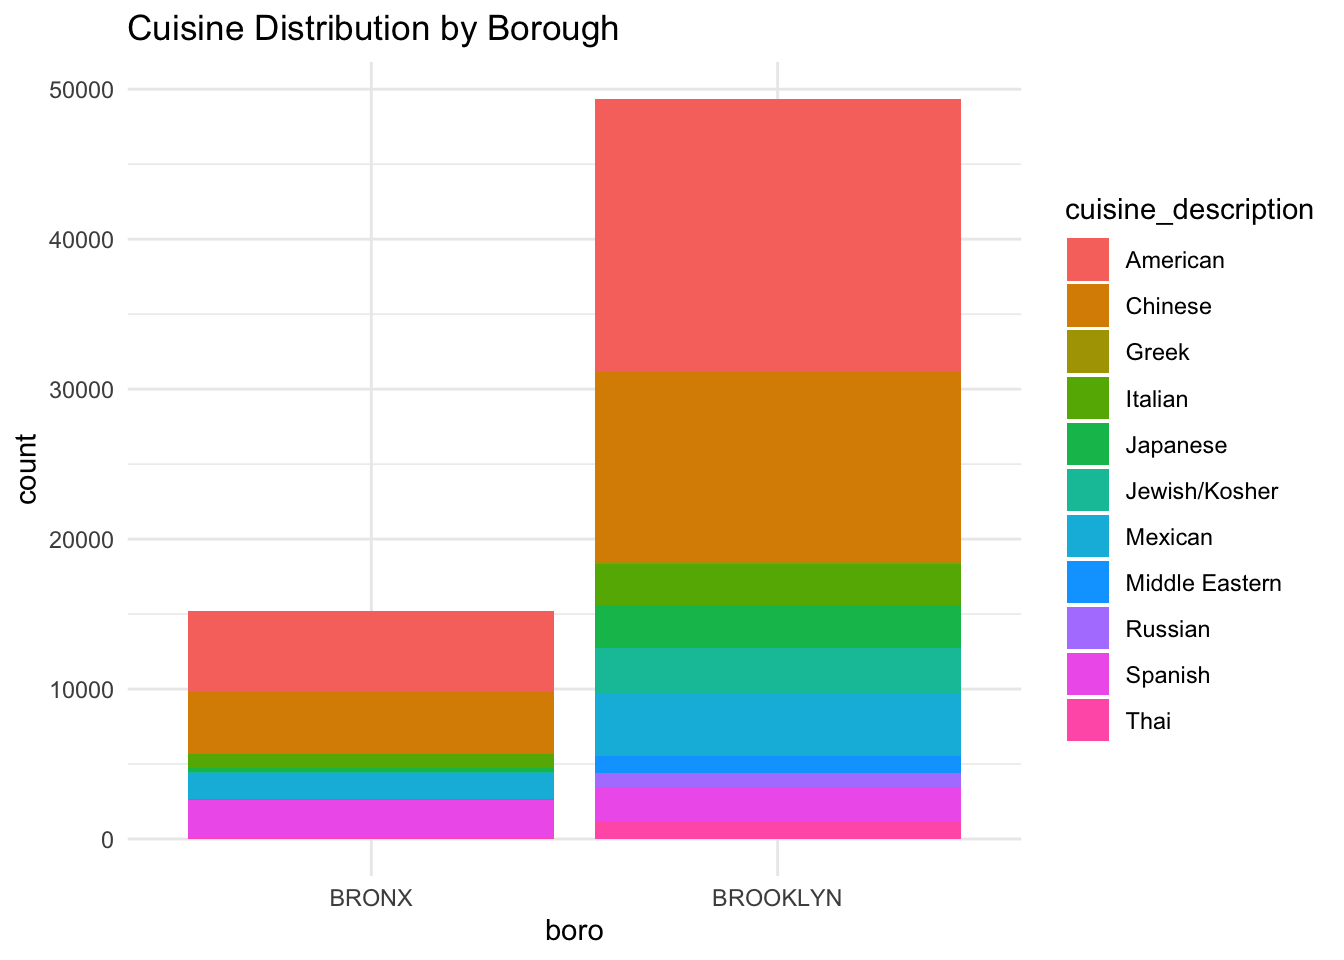
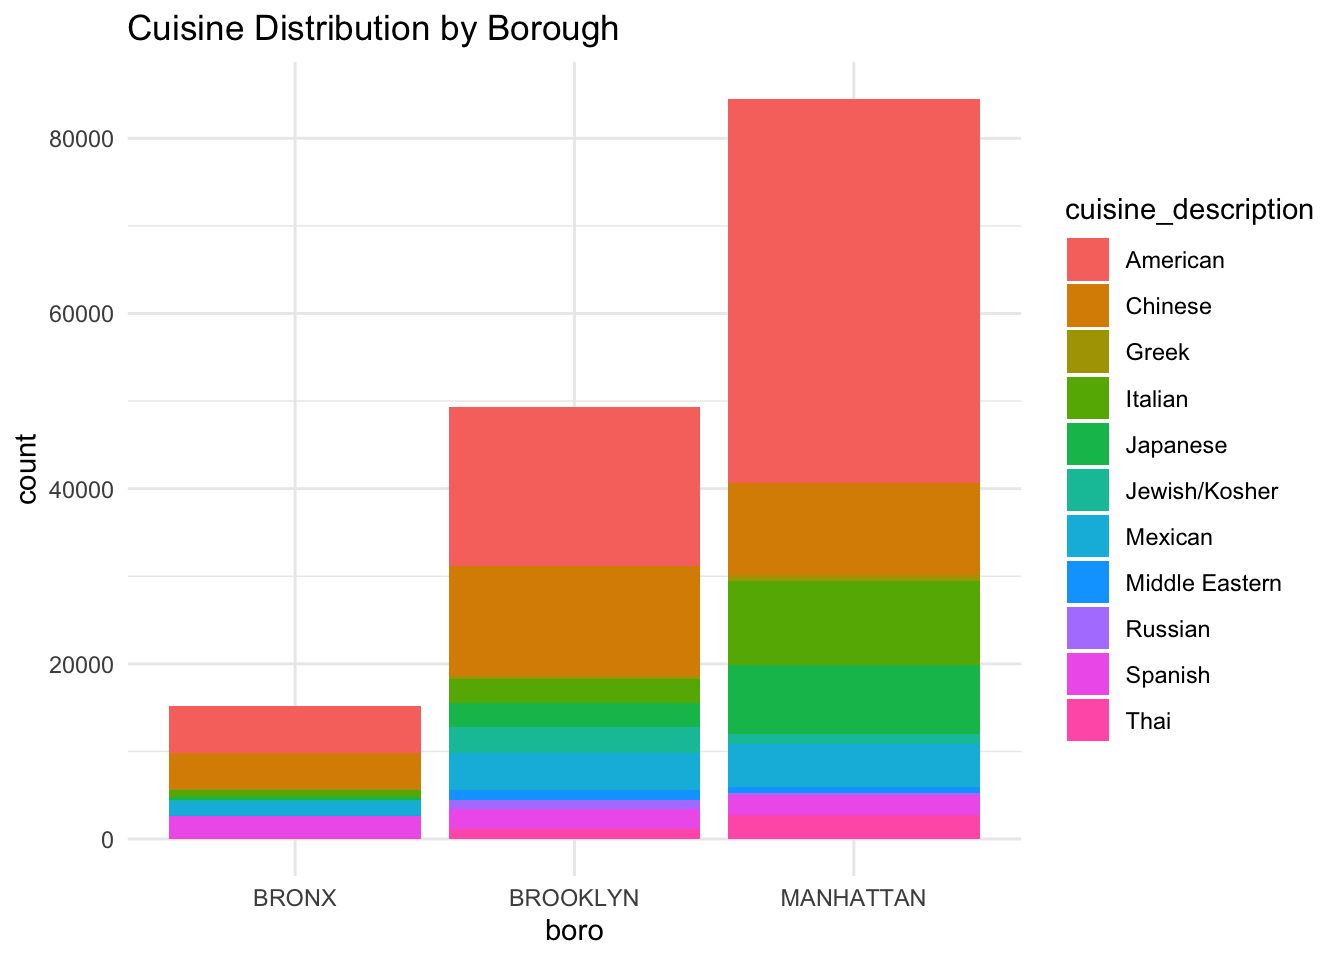
My final commit of the day!

diff --git a/resume.html b/resume.html
@@ -324,16 +324,19 @@ div.tocify {
       </ul>
       <ul class="nav navbar-nav navbar-right">
         <li>
-  <a href="about.html">About</a>
+  <a href="resume.html">Resume</a>
 </li>
 <li>
-  <a href="mailto:&lt;you@youremail.com&gt;">
+  <a href="plotly.html">plotly</a>
+</li>
+<li>
+  <a href="mailto:&lt;rh3132.cumc.colummbia.edu&gt;">
     <span class="fa fa-envelope fa-lg"></span>
      
   </a>
 </li>
 <li>
-  <a href="http://github.com/&lt;YOUR_GH_NAME&gt;/">
+  <a href="http://github.com/Ruohan99111/">
     <span class="fa fa-github fa-lg"></span>
      
   </a>
@@ -352,50 +355,59 @@ div.tocify {
 </div>
 
 
-<div id="this-page-has-information-about-me-experience"
-class="section level1">
-<h1>This page has information about me experience!</h1>
-<p>##Academic background</p>
+<p>Click <a href="index.html">here</a> to return to the index page!</p>
+<div id="academic-background" class="section level1">
+<h1>Academic background</h1>
 <p><strong>Columbia University, Mailman School of Public Health</strong>
 –New York, NY Master of Public Health in Epidemiology; certificate in
 Advanced Epidemiology | GPA: 3.94 Sept 2022 - Jun 2024</p>
 <p><strong>University of Washington, School of Public Health</strong> –
 Seattle, WA Bachelor of Arts in Food system, Nutrition and Health Minor
 in Global Health | GPA: 3.7 Sept 2018 - Jun 2022</p>
-<p>##SKILLSET Data Analysis &amp; Visualization: R, MySQL, SAS, SPSS,
-MATLAB, Tableau, Figma Research: Survival analysis, regression, proposal
-&amp; grant writing, IRB submission, survey analysis, literature
-review</p>
-<p>##EXPERIENCE <strong>Global Healthy Living Foundation</strong> New
-York Research Fellow Jun 2023 - Present - Conduct literature reviews,
-design studies, and actively participate in grant writing initiatives;
-secure an average of $100k in research grants. - Employ R, SAS and Excel
-to conduct rigorous data analytics on datasets of over 25,000 patients,
-generating descriptive statistics and creating insightful
-visualizations; enhance health information dissemination by 14% within
-patient groups. <strong>Columbia University Mailman School of Public
-Health</strong> New York Research Data Analyst May 2023 - Present -
-Utilize R and SPSS to clean, maintain, analyze, and validate survey data
-for 500+ participants, ensuring robust data integrity and reducing data
+</div>
+<div id="skillset" class="section level1">
+<h1>SKILLSET</h1>
+<p>Data Analysis &amp; Visualization: R, MySQL, SAS, SPSS, MATLAB,
+Tableau, Figma Research: Survival analysis, regression, proposal &amp;
+grant writing, IRB submission, survey analysis, literature review</p>
+</div>
+<div id="experience" class="section level1">
+<h1>EXPERIENCE</h1>
+<p><strong>Global Healthy Living Foundation</strong> New York Research
+Fellow Jun 2023 - Present - Conduct literature reviews, design studies,
+and actively participate in grant writing initiatives; secure an average
+of $100k in research grants. - Employ R, SAS and Excel to conduct
+rigorous data analytics on datasets of over 25,000 patients, generating
+descriptive statistics and creating insightful visualizations; enhance
+health information dissemination by 14% within patient groups.</p>
+<p><strong>Columbia University Mailman School of Public Health</strong>
+New York Research Data Analyst May 2023 - Present - Utilize R and SPSS
+to clean, maintain, analyze, and validate survey data for 500+
+participants, ensuring robust data integrity and reducing data
 inconsistencies by 23%. - Apply specialized statistical methods such as
-regression and survival analysis to unearth key patterns and insights.
-<strong>GlaxoSmithKline</strong> Vaccine Quality Control Analysis Intern
-Apr 2021 - Aug 2021 - Steer quality objectives and improvement plans,
-using Tableau to analyzing key indicators to foster continual
+regression and survival analysis to unearth key patterns and
+insights.</p>
+<p><strong>GlaxoSmithKline</strong> Vaccine Quality Control Analysis
+Intern Apr 2021 - Aug 2021 - Steer quality objectives and improvement
+plans, using Tableau to analyzing key indicators to foster continual
 enhancements. - Monitor FDA vaccine announcements, scrutinize vaccine
 quality test reports using Excel, and collate batch data for
 comprehensive analysis.</p>
-<p>##PROJECT <strong>Data-Driven Insights into the Correlation Between
-Income and Sleep Quality</strong> - Utilized large datasets and applied
+</div>
+<div id="project" class="section level1">
+<h1>PROJECT</h1>
+<p><strong>Data-Driven Insights into the Correlation Between Income and
+Sleep Quality</strong> - Utilized large datasets and applied
 correlations, logistic regression, and t- tests to evaluate the
 relationship using SAS. - Authored evidence-based abstracts and tables
 to demonstrate a correlation between lower income and reduced sleep
-quality. <strong>Correlation Analysis of Serological and Immune
-Indicators of HIV-1 Recent Infection</strong> - Established logistic
-regression model to compare the differences of indicators between recent
-infection and previous infection samples, and further conducted
-statistical data analysis using SPSS. - Discovered that no correlation
-between S/CO and CD4 count in different immune states.</p>
+quality.</p>
+<p><strong>Correlation Analysis of Serological and Immune Indicators of
+HIV-1 Recent Infection</strong> - Established logistic regression model
+to compare the differences of indicators between recent infection and
+previous infection samples, and further conducted statistical data
+analysis using SPSS. - Discovered that no correlation between S/CO and
+CD4 count in different immune states.</p>
 </div>
 
 

diff --git a/plotly.html b/plotly.html
@@ -279,8 +279,8 @@ $(document).ready(function () {
 </div>
 
 
-<p>Click [here] (index.html) to return to the index page! We’re gonna
-look at the Instacart data.</p>
+<p>Click <a href="index.html">here</a> to return to the index page!</p>
+<p>We’re gonna look at the Instacart data.</p>
 <pre class="r"><code>library(flexdashboard)
 library(p8105.datasets)
 data(&quot;rest_inspec&quot;)
@@ -299,25 +299,25 @@ library(tidyverse)</code></pre>
 <pre class="r"><code>data(&quot;rest_inspec&quot;)</code></pre>
 <pre class="r"><code>rest_inspec &lt;- rest_inspec %&gt;%
   filter(!is.na(score) &amp; 
-         boro %in% c(&quot;Manhattan&quot;, &quot;BRONX&quot;, &quot;BROOKLYN&quot;) &amp;
+         boro %in% c(&quot;BRONX&quot;, &quot;MANHATTAN&quot;, &quot;BROOKLYN&quot;) &amp;
          cuisine_description %in% c(&quot;Mexican&quot;, &quot;Chinese&quot;, &quot;Japanese&quot;, &quot;Italian&quot;, &quot;Jewish/Kosher&quot;, &quot;Russian&quot;, &quot;American&quot;, &quot;Middle Eastern&quot;, &quot;Spanish&quot;, &quot;Greek&quot;, &quot;Thai&quot;)) %&gt;%
-  select(boro,cuisine_description, dba, critical_flag, score, grade)</code></pre>
+  select(boro, cuisine_description, dba, critical_flag, score, grade)</code></pre>
 <pre class="r"><code>print(rest_inspec)</code></pre>
-<pre><code>## # A tibble: 64,594 × 6
-##    boro  cuisine_description dba                       critical_flag score grade
-##    &lt;chr&gt; &lt;chr&gt;               &lt;chr&gt;                     &lt;chr&gt;         &lt;int&gt; &lt;chr&gt;
-##  1 BRONX Chinese             NEW LIN&#39;S GARDEN NY       Critical         22 &lt;NA&gt; 
-##  2 BRONX Chinese             KIM HUA                   Not Critical      9 A    
-##  3 BRONX American            SYMPHONY DINER            Not Critical     22 &lt;NA&gt; 
-##  4 BRONX Mexican             LOS HERMANOS SALAZAR RES… Critical          6 A    
-##  5 BRONX American            GLACKEN&#39;S BAR             Not Critical     23 &lt;NA&gt; 
-##  6 BRONX American            NEW YORK YANKEES MVP CLUB Not Applicab…     0 A    
-##  7 BRONX American            HIGHLANDERS (STAND 318)   Critical          7 A    
-##  8 BRONX American            STADIUM PIZZA BAR RESTAU… Not Applicab…     0 A    
-##  9 BRONX American            YANKEE TAVERN             Not Critical     13 A    
-## 10 BRONX American            NATHAN&#39;S (STAND 312)      Not Critical     10 A    
-## # ℹ 64,584 more rows</code></pre>
-<p>The <code>rest_inspec</code> dataset contains 64594 observations and
+<pre><code>## # A tibble: 149,097 × 6
+##    boro      cuisine_description dba                   critical_flag score grade
+##    &lt;chr&gt;     &lt;chr&gt;               &lt;chr&gt;                 &lt;chr&gt;         &lt;int&gt; &lt;chr&gt;
+##  1 MANHATTAN Italian             SPINELLI&#39;S PIZZA/GYR… Not Critical     40 &lt;NA&gt; 
+##  2 MANHATTAN American            THE HAROLD            Critical          9 A    
+##  3 MANHATTAN American            BRGR                  Not Critical     12 A    
+##  4 MANHATTAN American            EPICE CAFE            Critical          8 &lt;NA&gt; 
+##  5 MANHATTAN Thai                SONG KRAN THAI        Not Critical     28 &lt;NA&gt; 
+##  6 MANHATTAN Chinese             GRAND SICHUAN         Not Critical     23 &lt;NA&gt; 
+##  7 MANHATTAN American            TOMMY HILFIGER        Not Critical     26 &lt;NA&gt; 
+##  8 MANHATTAN American            THE HAROLD            Critical         17 &lt;NA&gt; 
+##  9 MANHATTAN American            DEATH AVE             Critical          6 &lt;NA&gt; 
+## 10 MANHATTAN American            JOHNY&#39;S LUNCHEONETTE  Critical          7 A    
+## # ℹ 149,087 more rows</code></pre>
+<p>The <code>rest_inspec</code> dataset contains 149097 observations and
 <code>6</code> variables.</p>
 <p>We only want to look at restaurants located in the boroughs of
 “Manhattan”, “BRONX”, and “BROOKLYN”. Cuisine Filter: The dataset was

diff --git a/index.html b/index.html
@@ -11,7 +11,7 @@
 
 
 
-<title>Ruohan Hong’s awesome website</title>
+<title>Ruohan Hong’s website</title>
 
 <script src="site_libs/header-attrs-2.25/header-attrs.js"></script>
 <script src="site_libs/jquery-3.6.0/jquery-3.6.0.min.js"></script>
@@ -350,14 +350,16 @@ div.tocify {
 
 
 
-<h1 class="title toc-ignore">Ruohan Hong’s awesome website</h1>
+<h1 class="title toc-ignore">Ruohan Hong’s website</h1>
 
 </div>
 
 
-<div id="this-is-ruohan-hongs-webpage-this-is-for-p8105-homework-4."
-class="section level1">
-<h1>This is Ruohan Hong’s webpage! This is for P8105 Homework 4.</h1>
+<div id="my-journey" class="section level1">
+<h1>My journey</h1>
+<p>I graduated form the University of Washington in 2022. I love fishing
+and watching crime shows. My favorite holiday is Christmas, and it’s
+coming!</p>
 <p>I am Excited about Christmas, are you?</p>
 <p><img src="christmas.jpeg" /></p>
 </div>
@@ -365,6 +367,13 @@ class="section level1">
 class="section level1">
 <h1>Here is the link to my resume, check it out!</h1>
 <p><a href="resume.html">resume</a></p>
+</div>
+<div
+id="here-is-some-analysis-plots-ive-done-for-nyc-restaurant-inspections."
+class="section level1">
+<h1>Here is some analysis plots I’ve done for NYC Restaurant
+Inspections.</h1>
+<p><a href="plotly.html">plotly</a></p>
 <p>For my email and Github, please find it on the top right.</p>
 </div>
 
